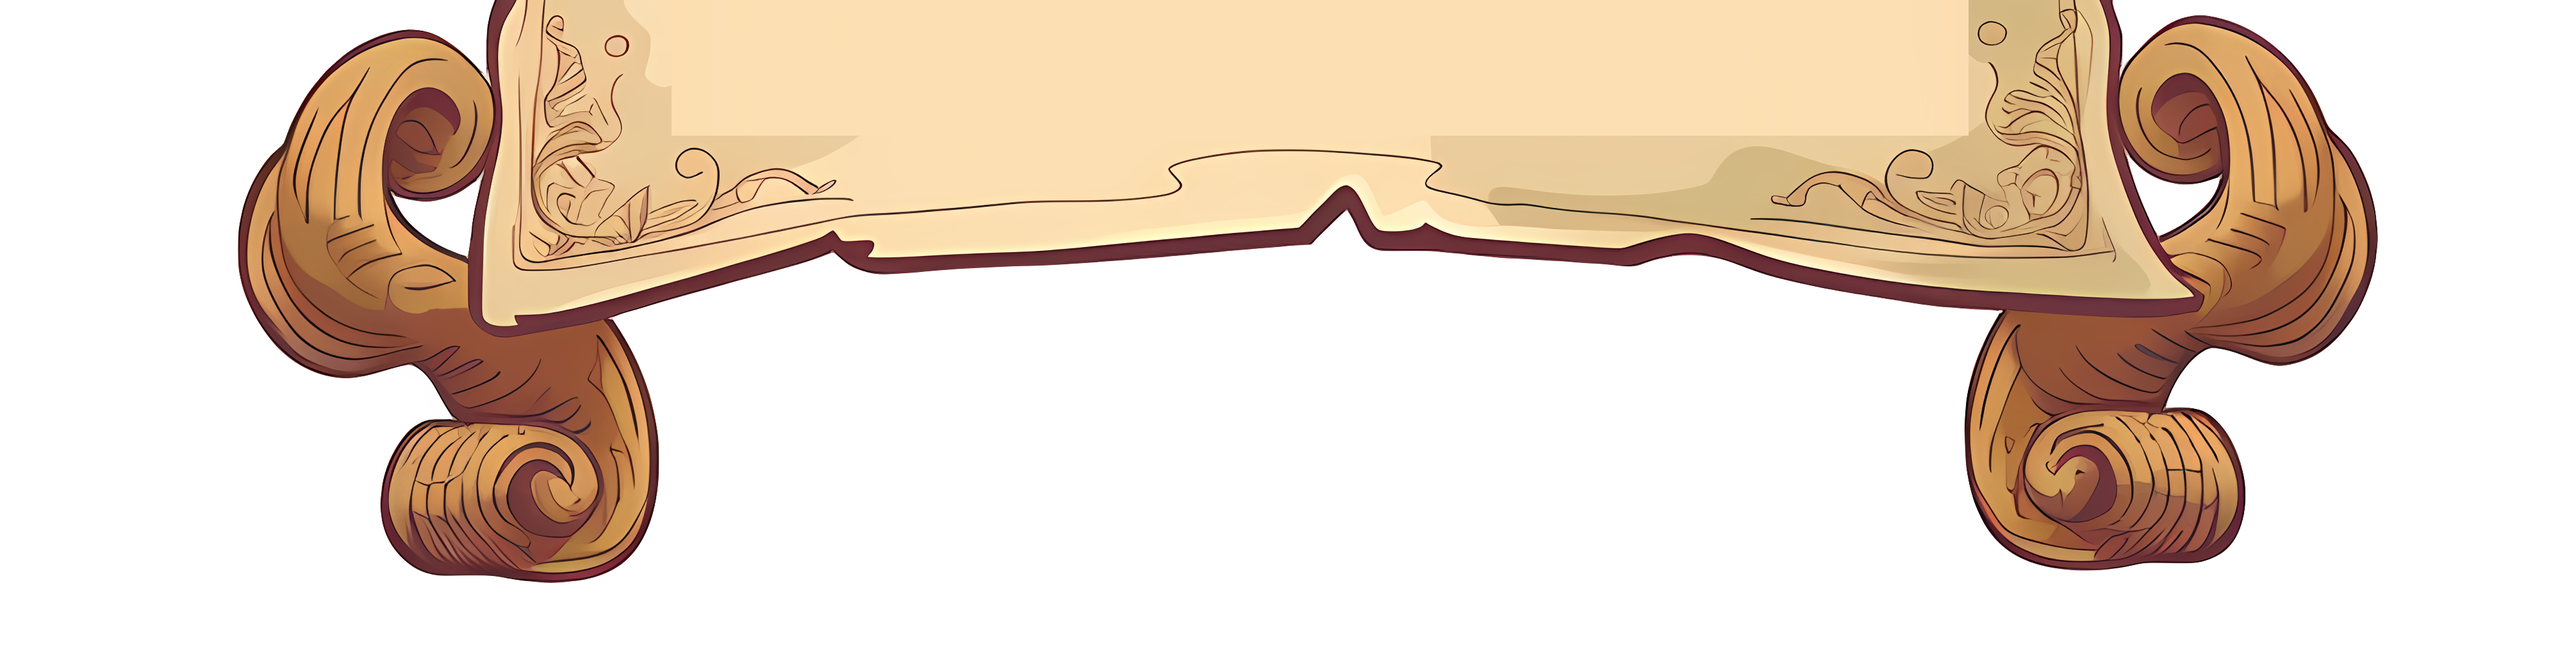
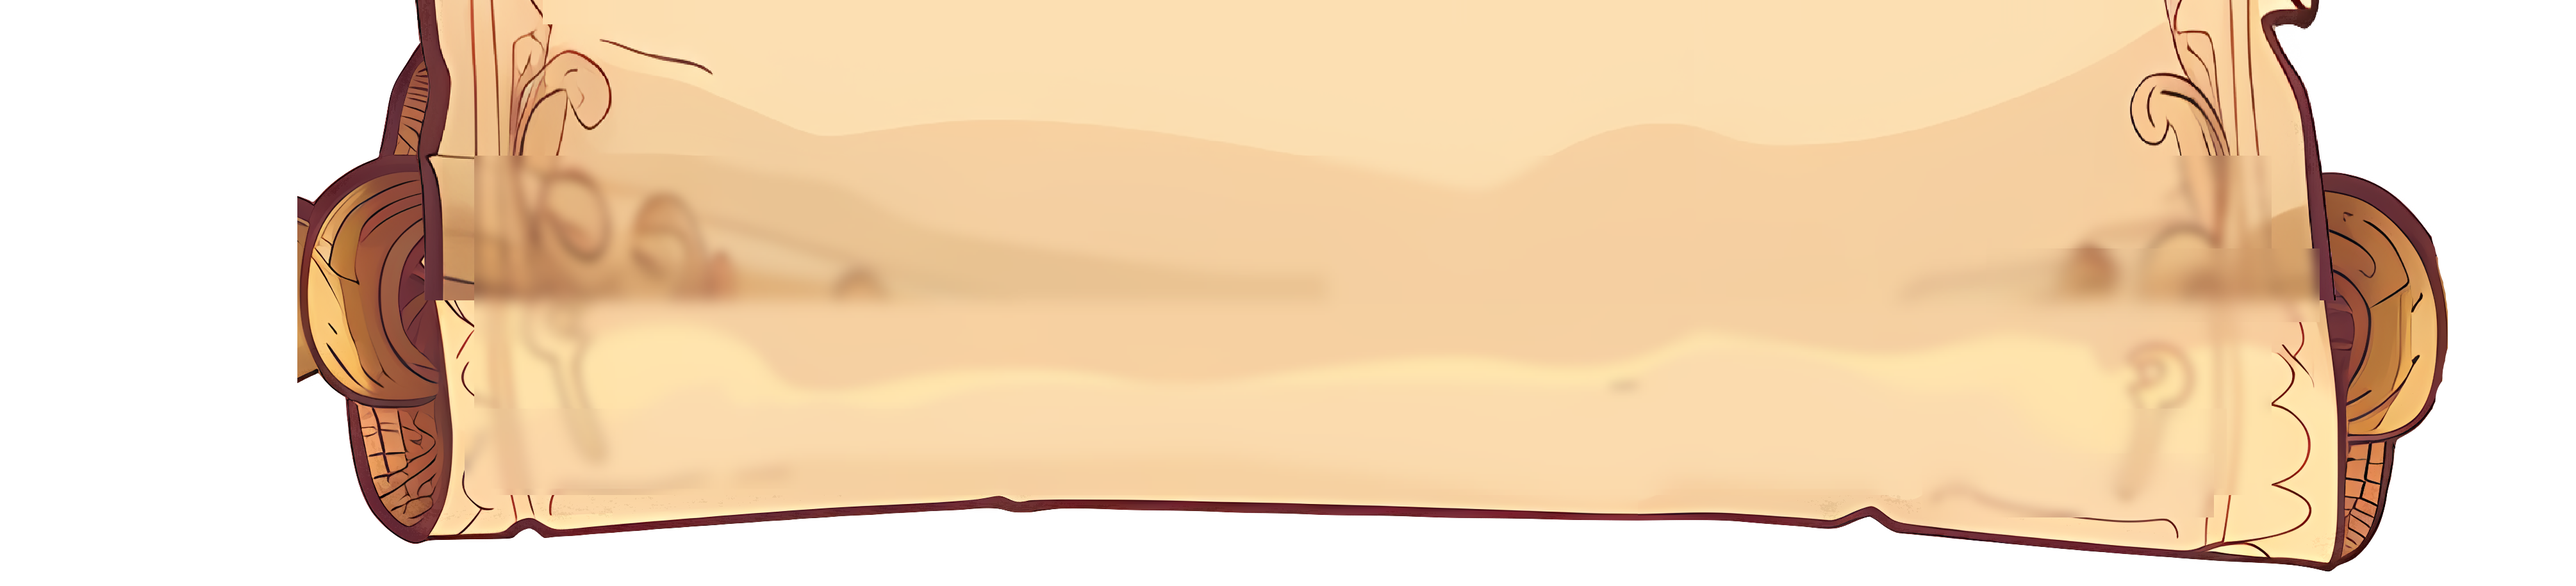
Convert writing page to header/middle/footer approach with tiling

diff --git a/writing.html b/writing.html
@@ -14,46 +14,59 @@
     <script src="https://cdnjs.cloudflare.com/ajax/libs/jquery/3.7.1/jquery.min.js"></script>
     
     <style>
-        /* Parchment Scroll Design with Full Image */
+        /* Parchment Scroll Design with Header/Middle/Footer */
         .writing-content {
             background: #2a2a2a;
             min-height: 100vh;
             position: relative;
             padding: 40px 0;
             margin: 0 -30px;
-            display: flex;
-            justify-content: center;
-            align-items: flex-start;
         }
         
         .scroll-container {
             position: relative;
             width: 100%; /* Full width of middle section */
             max-width: none;
-            margin: 0;
+            margin: 0 auto;
         }
         
-        /* Full parchment image background */
-        .parchment-background {
-            position: relative;
+        /* Parchment sections */
+        .parchment-header,
+        .parchment-middle,
+        .parchment-footer {
             width: 100%;
-            background-image: url('writing/full image test.png');
             background-size: 100% 100%;
             background-repeat: no-repeat;
-            background-position: center top;
-            min-height: 1600px; /* Adjust based on content */
-            display: flex;
-            justify-content: center;
-            align-items: flex-start;
+            position: relative;
+        }
+        
+        .parchment-header {
+            background-image: url('writing/header.png');
+            height: 985px; /* Native height of header.png */
+        }
+        
+        .parchment-middle {
+            background-image: url('writing/middle.png');
+            background-repeat: repeat-y;
+            background-size: 100% auto;
+            min-height: 2346px; /* Height of one middle section */
+        }
+        
+        .parchment-footer {
+            background-image: url('writing/footer.png');
+            height: 915px; /* Native height of footer.png */
         }
         
         /* Content wrapper */
         .scroll-content {
-            position: relative;
-            width: 65%; /* Widened by ~2 inches total */
-            max-width: 900px; /* Increased max width */
-            padding: 200px 40px 100px 100px; /* Move both sides right by 1/2" */
-            margin: 0 auto;
+            position: absolute;
+            top: 0;
+            left: 50%;
+            transform: translateX(-50%);
+            width: 65%;
+            max-width: 900px;
+            padding: 250px 80px 100px 140px;
+            z-index: 10;
         }
         
         /* Typography */
@@ -103,25 +116,32 @@
                 inset 0 0 20px rgba(0,0,0,0.2);
         }
         
+        /* Dynamic height adjustment for content */
+        .parchment-middle {
+            display: flex;
+            align-items: flex-start;
+            position: relative;
+        }
+        
         /* Responsive adjustments */
         @media (max-width: 1600px) {
             .scroll-content {
                 width: 70%;
-                padding: 200px 35px 100px 95px; /* Move both sides right by 1/2" */
+                padding: 250px 70px 100px 130px;
             }
         }
         
         @media (max-width: 1200px) {
             .scroll-content {
                 width: 75%;
-                padding: 180px 30px 100px 85px; /* Move both sides right by 1/2" */
+                padding: 230px 60px 100px 115px;
             }
         }
         
         @media (max-width: 768px) {
             .scroll-content {
                 width: 80%;
-                padding: 150px 25px 80px 70px; /* Move both sides right by 1/2" */
+                padding: 200px 40px 80px 80px;
             }
             
             .writing-title {
@@ -145,7 +165,7 @@
         @media (max-width: 480px) {
             .scroll-content {
                 width: 85%;
-                padding: 120px 15px 60px 50px; /* Move both sides right by 1/2" */
+                padding: 150px 20px 60px 50px;
             }
             
             .writing-title {
@@ -161,8 +181,9 @@
                 text-align: left;
             }
             
-            .parchment-background {
-                min-height: 1400px;
+            .parchment-header,
+            .parchment-footer {
+                background-size: 100% auto;
             }
         }
     </style>
@@ -221,7 +242,8 @@
         <main class="content">
             <div class="writing-content">
                 <div class="scroll-container">
-                    <div class="parchment-background">
+                    <div class="parchment-header"></div>
+                    <div class="parchment-middle">
                         <div class="scroll-content">
                             <h2 class="writing-title">Head in the Clouds</h2>
                             
@@ -254,6 +276,7 @@
                             </div>
                         </div>
                     </div>
+                    <div class="parchment-footer"></div>
                 </div>
             </div>
         </main>
@@ -275,5 +298,29 @@
     </div>
     
     <script src="script.js?v=7"></script>
+    <script>
+        // Adjust middle section height based on content
+        $(document).ready(function() {
+            function adjustParchmentHeight() {
+                const content = $('.scroll-content');
+                const contentHeight = content.outerHeight();
+                const headerHeight = 985;
+                const footerHeight = 915;
+                const middleUnitHeight = 2346;
+                
+                // Calculate how many middle units we need
+                const neededMiddleHeight = Math.max(contentHeight - headerHeight, middleUnitHeight);
+                const middleUnits = Math.ceil(neededMiddleHeight / middleUnitHeight);
+                const totalMiddleHeight = middleUnits * middleUnitHeight;
+                
+                // Set the middle section height
+                $('.parchment-middle').css('min-height', totalMiddleHeight + 'px');
+            }
+            
+            // Run on load and resize
+            adjustParchmentHeight();
+            $(window).resize(adjustParchmentHeight);
+        });
+    </script>
 </body>
 </html>
